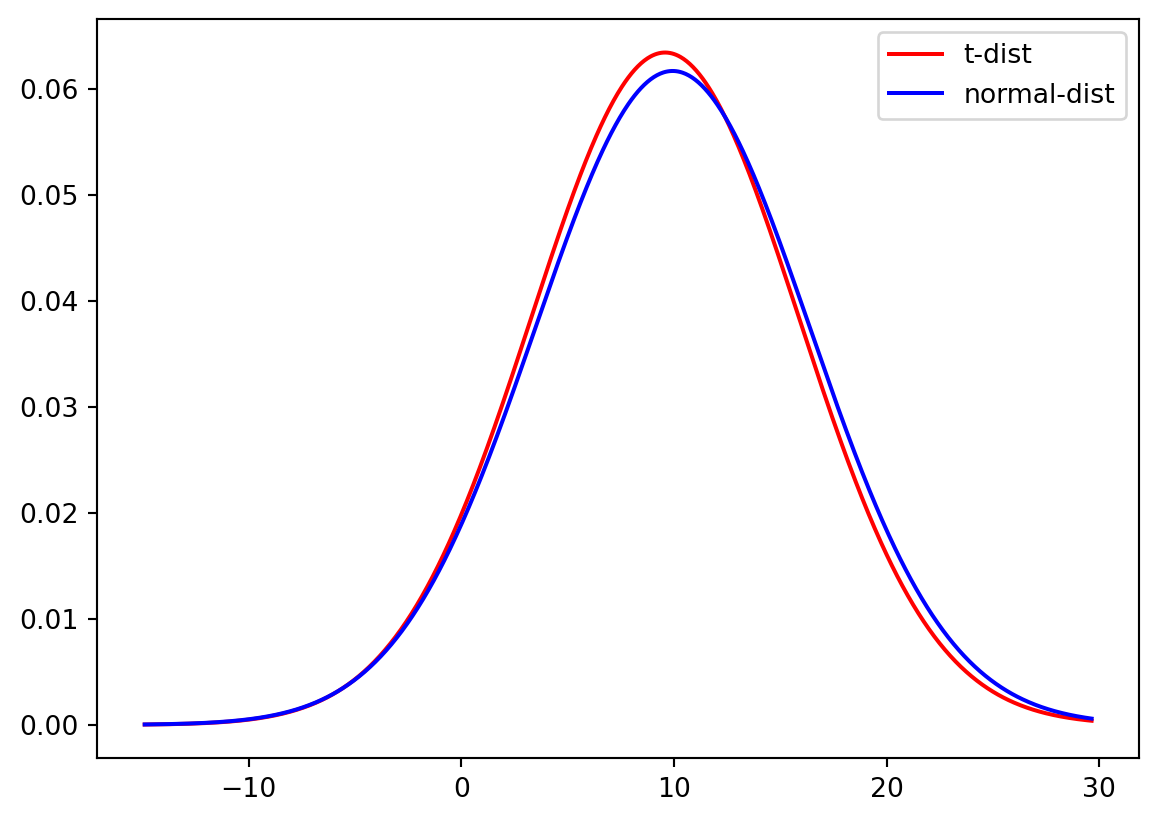
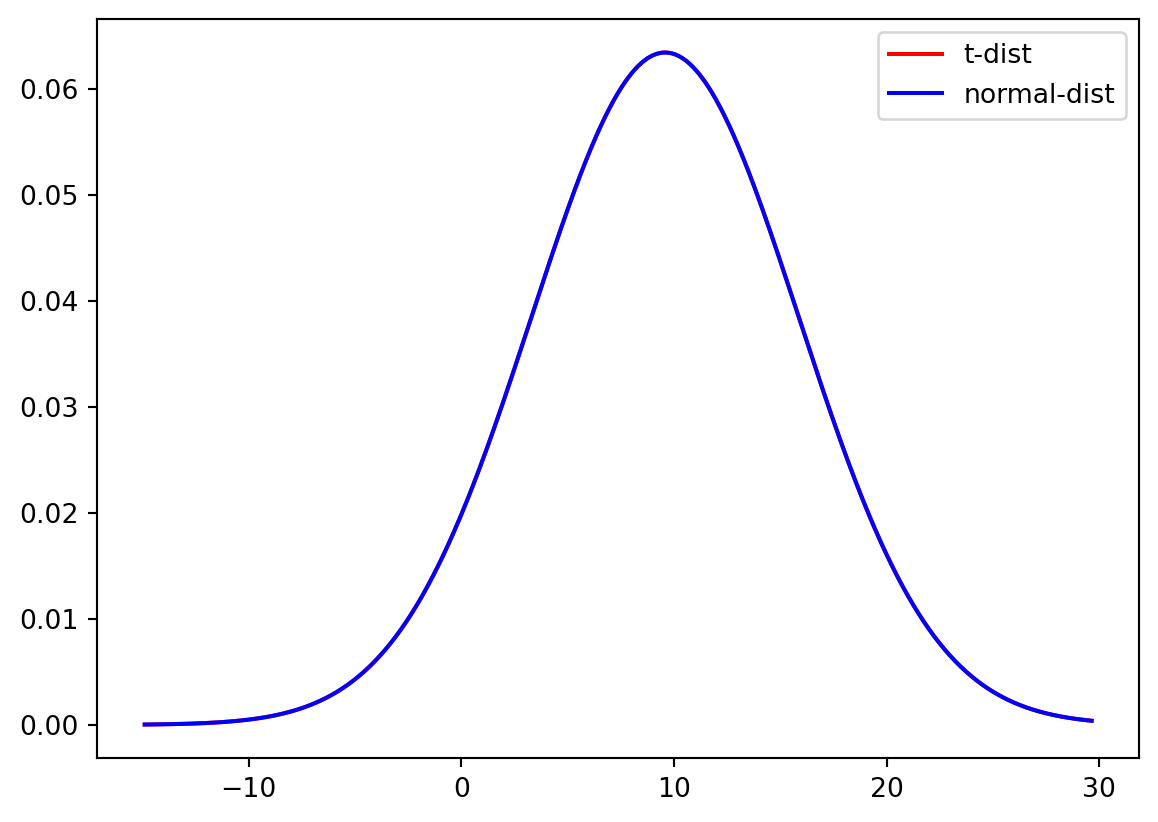
Fixed minor issue with sample dataset

diff --git a/04_distributionsData/distributionsData.html b/04_distributionsData/distributionsData.html
@@ -117,14 +117,14 @@ pre > code.sourceCode > span > a:first-child::before { text-decoration: underlin
 <li><p>Matplotlib (plotting)</p></li>
 <li><p>Scipy (statistical analysis)</p></li>
 </ul>
-<div id="231df9c5" class="cell" data-execution_count="1">
+<div id="1c9e5a66" class="cell" data-execution_count="1">
 <div class="sourceCode cell-code" id="cb1"><pre class="sourceCode python code-with-copy"><code class="sourceCode python"><span id="cb1-1"><a href="#cb1-1" aria-hidden="true" tabindex="-1"></a><span class="im">import</span> pandas <span class="im">as</span> pd</span>
 <span id="cb1-2"><a href="#cb1-2" aria-hidden="true" tabindex="-1"></a><span class="im">import</span> matplotlib.pyplot <span class="im">as</span> plt</span>
 <span id="cb1-3"><a href="#cb1-3" aria-hidden="true" tabindex="-1"></a><span class="im">import</span> numpy <span class="im">as</span> np</span>
 <span id="cb1-4"><a href="#cb1-4" aria-hidden="true" tabindex="-1"></a><span class="im">import</span> scipy.stats <span class="im">as</span> stats</span></code><button title="Copy to Clipboard" class="code-copy-button"><i class="bi"></i></button></pre></div>
 </div>
 <p>Now we are going to take a look at the first dataset which contains information about the daily temperatures in the Netherlands. We tell pandas to parse the date information, and use it as row labels:</p>
-<div id="106b4ac6" class="cell" data-execution_count="2">
+<div id="913b32bc" class="cell" data-execution_count="2">
 <div class="sourceCode cell-code" id="cb2"><pre class="sourceCode python code-with-copy"><code class="sourceCode python"><span id="cb2-1"><a href="#cb2-1" aria-hidden="true" tabindex="-1"></a>Tas <span class="op">=</span> pd.read_csv(<span class="st">"../Data/dailyTemperature.csv"</span>, parse_dates<span class="op">=</span><span class="va">True</span>, index_col<span class="op">=</span><span class="dv">0</span>).dropna()</span>
 <span id="cb2-2"><a href="#cb2-2" aria-hidden="true" tabindex="-1"></a>Precip <span class="op">=</span> pd.read_csv(<span class="st">"../Data/dailyPrecipitation.csv"</span>, parse_dates<span class="op">=</span><span class="va">True</span>, index_col<span class="op">=</span><span class="dv">0</span>).dropna()</span>
 <span id="cb2-3"><a href="#cb2-3" aria-hidden="true" tabindex="-1"></a>Evap <span class="op">=</span> pd.read_csv(<span class="st">"../Data/dailyEvaporation.csv"</span>, parse_dates<span class="op">=</span><span class="va">True</span>, index_col<span class="op">=</span><span class="dv">0</span>).dropna()</span></code><button title="Copy to Clipboard" class="code-copy-button"><i class="bi"></i></button></pre></div>
@@ -274,7 +274,7 @@ pre > code.sourceCode > span > a:first-child::before { text-decoration: underlin
 <h1>Using a t-distribution</h1>
 <p>When we are working with problems that have small samples size, for example the field observations where sample sizes might be as low as several measurements maybe up to a 100. Since in these measurements the true variance of the mean is unknown, it must be approximated by the sample standard error of the mean. And the ratio between the sample mean and the standard error had a distribution that is called the t-distribution, and converges for larger values towards the normal distribution.</p>
 <p>We can both the normal and distribution for the Temperature dataset with the fitting information from Question 12. We first fit both a t-distribution with a limited sample and a normal distribution and then plot the cumulative density function (CDF) for both distributions.</p>
-<div id="fd896def" class="cell" data-execution_count="3">
+<div id="8a104ae5" class="cell" data-execution_count="3">
 <div class="sourceCode cell-code" id="cb8"><pre class="sourceCode python code-with-copy"><code class="sourceCode python"><span id="cb8-1"><a href="#cb8-1" aria-hidden="true" tabindex="-1"></a>sampleTas <span class="op">=</span> Tas.sample(<span class="dv">50</span>, random_state<span class="op">=</span><span class="dv">1</span>)</span>
 <span id="cb8-2"><a href="#cb8-2" aria-hidden="true" tabindex="-1"></a>tStat, loc, scale <span class="op">=</span> stats.t.fit(sampleTas)</span>
 <span id="cb8-3"><a href="#cb8-3" aria-hidden="true" tabindex="-1"></a>degreeF <span class="op">=</span> <span class="bu">len</span>(sampleTas) <span class="op">-</span> <span class="dv">2</span></span>
@@ -295,11 +295,11 @@ pre > code.sourceCode > span > a:first-child::before { text-decoration: underlin
 </div>
 </div>
 <p>And again for the full sample of data.</p>
-<div id="50e31219" class="cell" data-execution_count="4">
+<div id="acb03cc8" class="cell" data-execution_count="4">
 <div class="sourceCode cell-code" id="cb9"><pre class="sourceCode python code-with-copy"><code class="sourceCode python"><span id="cb9-1"><a href="#cb9-1" aria-hidden="true" tabindex="-1"></a>tStat, loc, scale <span class="op">=</span> stats.t.fit(Tas)</span>
 <span id="cb9-2"><a href="#cb9-2" aria-hidden="true" tabindex="-1"></a>mean, std <span class="op">=</span> stats.norm.fit(Tas)</span>
 <span id="cb9-3"><a href="#cb9-3" aria-hidden="true" tabindex="-1"></a>degreeF <span class="op">=</span> <span class="bu">len</span>(Tas) <span class="op">-</span> <span class="dv">2</span></span>
-<span id="cb9-4"><a href="#cb9-4" aria-hidden="true" tabindex="-1"></a>mean, std <span class="op">=</span> stats.norm.fit(sampleTas)</span>
+<span id="cb9-4"><a href="#cb9-4" aria-hidden="true" tabindex="-1"></a>mean, std <span class="op">=</span> stats.norm.fit(Tas)</span>
 <span id="cb9-5"><a href="#cb9-5" aria-hidden="true" tabindex="-1"></a></span>
 <span id="cb9-6"><a href="#cb9-6" aria-hidden="true" tabindex="-1"></a>xLocs <span class="op">=</span> np.arange(Tas.<span class="bu">min</span>().iloc[<span class="dv">0</span>], Tas.<span class="bu">max</span>().iloc[<span class="dv">0</span>], <span class="fl">0.05</span>)</span>
 <span id="cb9-7"><a href="#cb9-7" aria-hidden="true" tabindex="-1"></a></span>

diff --git a/04_distributionsData/distributionsData.md b/04_distributionsData/distributionsData.md
@@ -383,7 +383,7 @@ And again for the full sample of data.
 tStat, loc, scale = stats.t.fit(Tas)
 mean, std = stats.norm.fit(Tas)
 degreeF = len(Tas) - 2
-mean, std = stats.norm.fit(sampleTas)
+mean, std = stats.norm.fit(Tas)
 
 xLocs = np.arange(Tas.min().iloc[0], Tas.max().iloc[0], 0.05)
 
